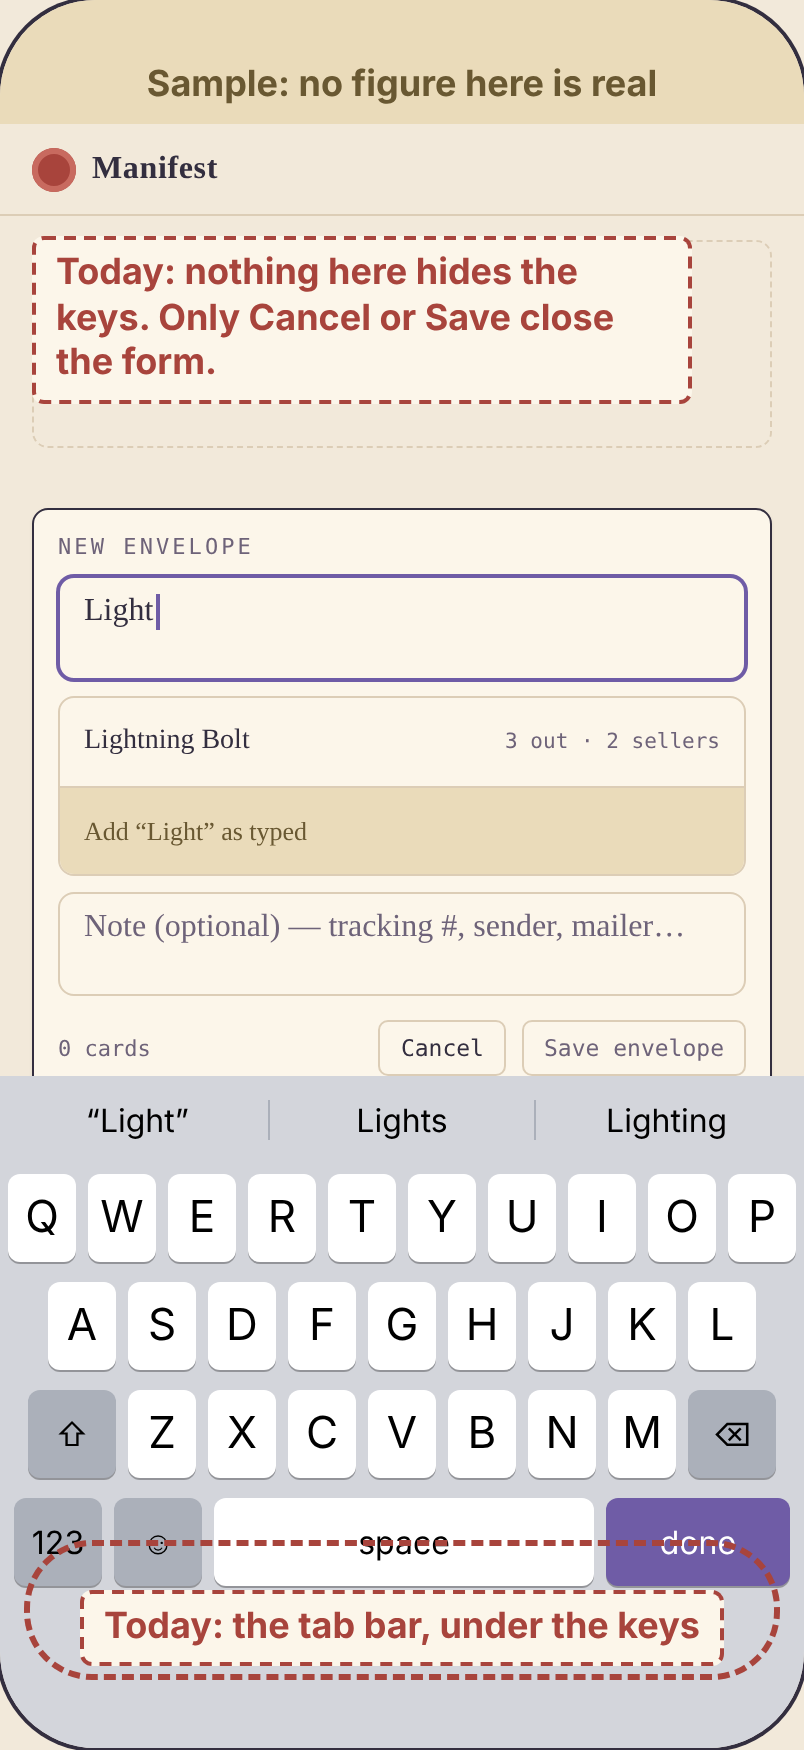
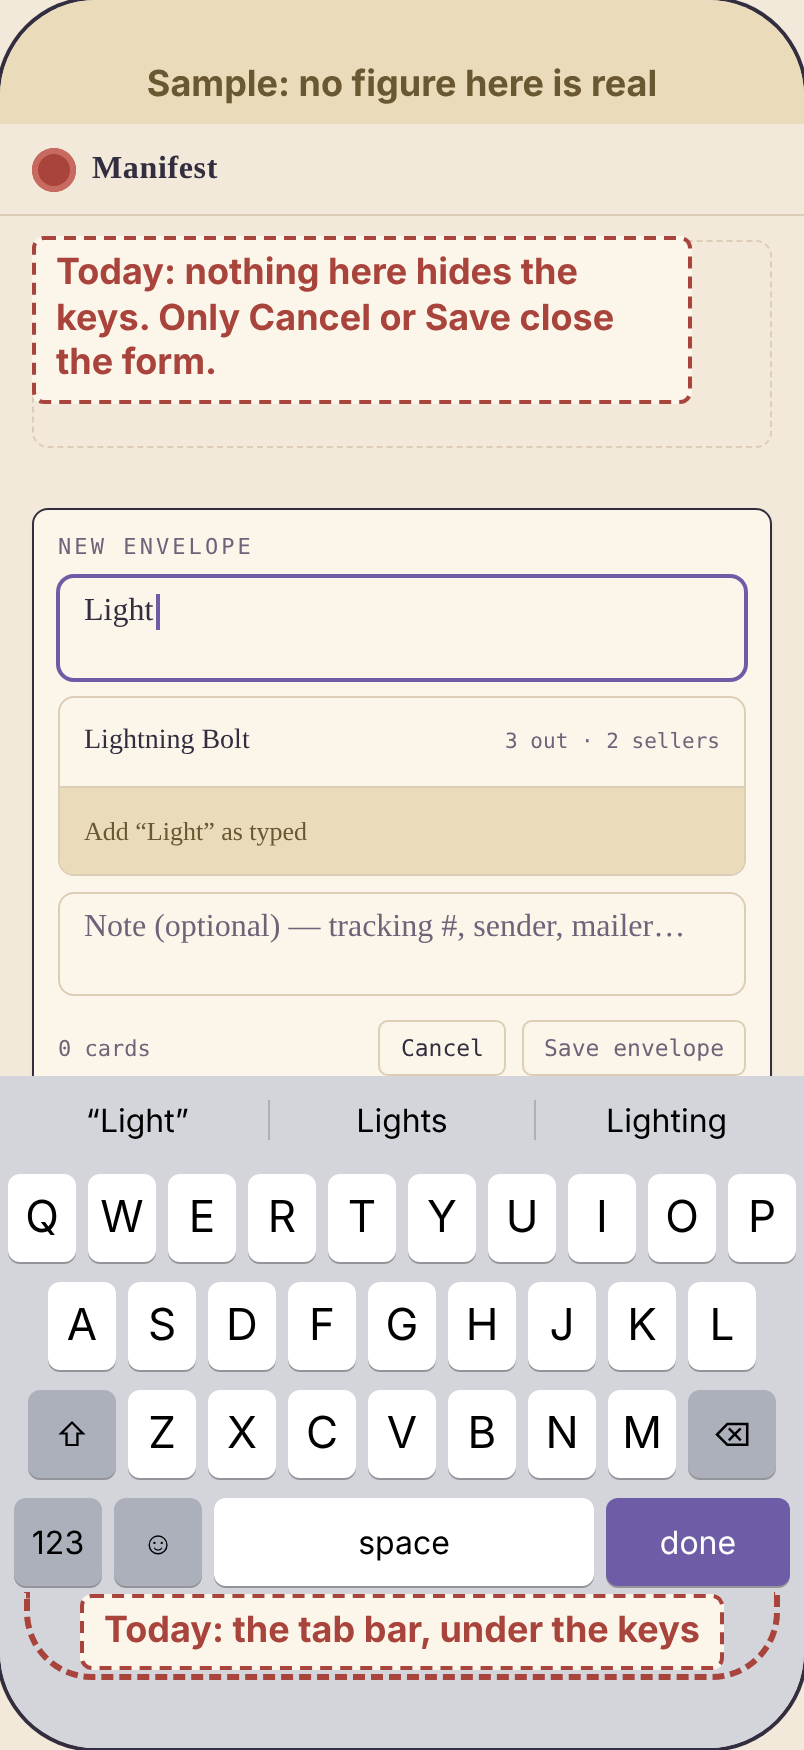
Item 86 mockups: clear the done key, carry the drag past the keys' edge
Claude-Session: https://claude.ai/code/session_01MVD32QwJssa7Z1yu87xrPz

diff --git a/docs/design/item-86-orphaned-composer-dismiss/a.html b/docs/design/item-86-orphaned-composer-dismiss/a.html
@@ -95,8 +95,8 @@ html, body { margin:0; background:var(--paper); color:var(--ink); font-family:va
 
 /* The drag cue: a finger mark at the end of a downward drag on the list. */
 .drag { position:absolute; z-index:8; pointer-events:none; }
-.drag .track { position:absolute; left:21px; top:0; width:0; height:270px; border-left:3px dashed var(--new); }
-.drag .head { position:absolute; left:11px; top:262px; width:0; height:0; border-left:12px solid transparent; border-right:12px solid transparent; border-top:16px solid var(--new); }
+.drag .track { position:absolute; left:21px; top:0; width:0; height:400px; border-left:3px dashed var(--new); }
+.drag .head { position:absolute; left:11px; top:392px; width:0; height:0; border-left:12px solid transparent; border-right:12px solid transparent; border-top:16px solid var(--new); }
 .drag .finger { position:absolute; left:0; top:-22px; width:44px; height:44px; border-radius:50%; background:rgba(46,122,94,0.18); border:2px solid var(--new); }
 
 /* Labels: dashed outline on what exists today (red) and on what the option adds (green). Sized to read on a 0.55 card. */
@@ -145,6 +145,8 @@ html, body { margin:0; background:var(--paper); color:var(--ink); font-family:va
   </div>
 
   <div class="drag" style="left:343px;top:200px" aria-hidden="true"><span class="track"></span><span class="head"></span><span class="finger"></span></div>
+  <!-- Where the keys' top edge sat before the drag (the other option's picture): the drag passes it, so the keys follow. -->
+  <div style="position:absolute;left:0;right:0;top:538px;border-top:2px dashed var(--new);z-index:4" aria-hidden="true"></div>
   <div class="tag new" style="left:16px;top:118px;width:296px">New: drag down on the list to hide the keys, as Card in Hand does</div>
 
   <div class="ring today" style="left:12px;right:12px;bottom:calc(var(--bottom));height:70px"></div>
@@ -161,7 +163,7 @@ html, body { margin:0; background:var(--paper); color:var(--ink); font-family:va
 
 <div class="page">
   <p><b>Measured versus drawn.</b> Nothing on this phone is measured on the 18 Pro. Drawn: the safe insets (62 pt top, 34 pt bottom), the tab bar's size and glass, the masthead's height and the scroll offset. Read from code: the 46 pt running head (<code>RunningHead.height</code>), the 16 pt gutters (<code>OrphanedView.list</code>), the form's parts and paints (<code>ComposerView</code>, <code>OrphanedPaint</code>), the tab order and badge (<code>RootView</code>).</p>
-  <p><b>The drag.</b> <code>HandScreen.swift</code> puts <code>.scrollDismissesKeyboard(.interactively)</code> on its scroll. The same line on the Orphaned scroll lets the keys follow a downward drag and close. The draft stays in the form, because <code>model.draft(for:)</code> holds it, not the field.</p>
+  <p><b>The drag.</b> <code>HandScreen.swift</code> puts <code>.scrollDismissesKeyboard(.interactively)</code> on its scroll. The same line on the Orphaned scroll lets the keys follow a downward drag and close. The green dashed line across the phone marks where the keys' top edge sat; the keys follow the finger once the drag passes it. The draft stays in the form, because <code>model.draft(for:)</code> holds it, not the field.</p>
   <p>State link: <code>#s=keys-hidden</code>. Cochin and Menlo fall back to a serif and DejaVu Sans Mono off a Mac.</p>
 </div>
 <script>

diff --git a/docs/design/item-86-orphaned-composer-dismiss/b.html b/docs/design/item-86-orphaned-composer-dismiss/b.html
@@ -117,7 +117,7 @@ html, body { margin:0; background:var(--paper); color:var(--ink); font-family:va
     <div class="krow"><span class="k mod">123</span><span class="k mod">☺</span><span class="k space">space</span><span class="k done">done</span></div>
   </div>
   <!-- Where the tab bar sits when the keys are down (same box as the other option's tab bar). -->
-  <div class="ring" style="left:12px;right:12px;bottom:var(--bottom);height:70px;border-radius:34px;display:flex;align-items:flex-end;justify-content:center;padding-bottom:4px">
+  <div class="ring" style="left:12px;right:12px;bottom:var(--bottom);height:44px;border-top:0;border-radius:0 0 34px 34px;display:flex;align-items:flex-end;justify-content:center;padding-bottom:2px">
     <span class="tag today" style="position:static">Today: the tab bar, under the keys</span>
   </div>
 </div>
